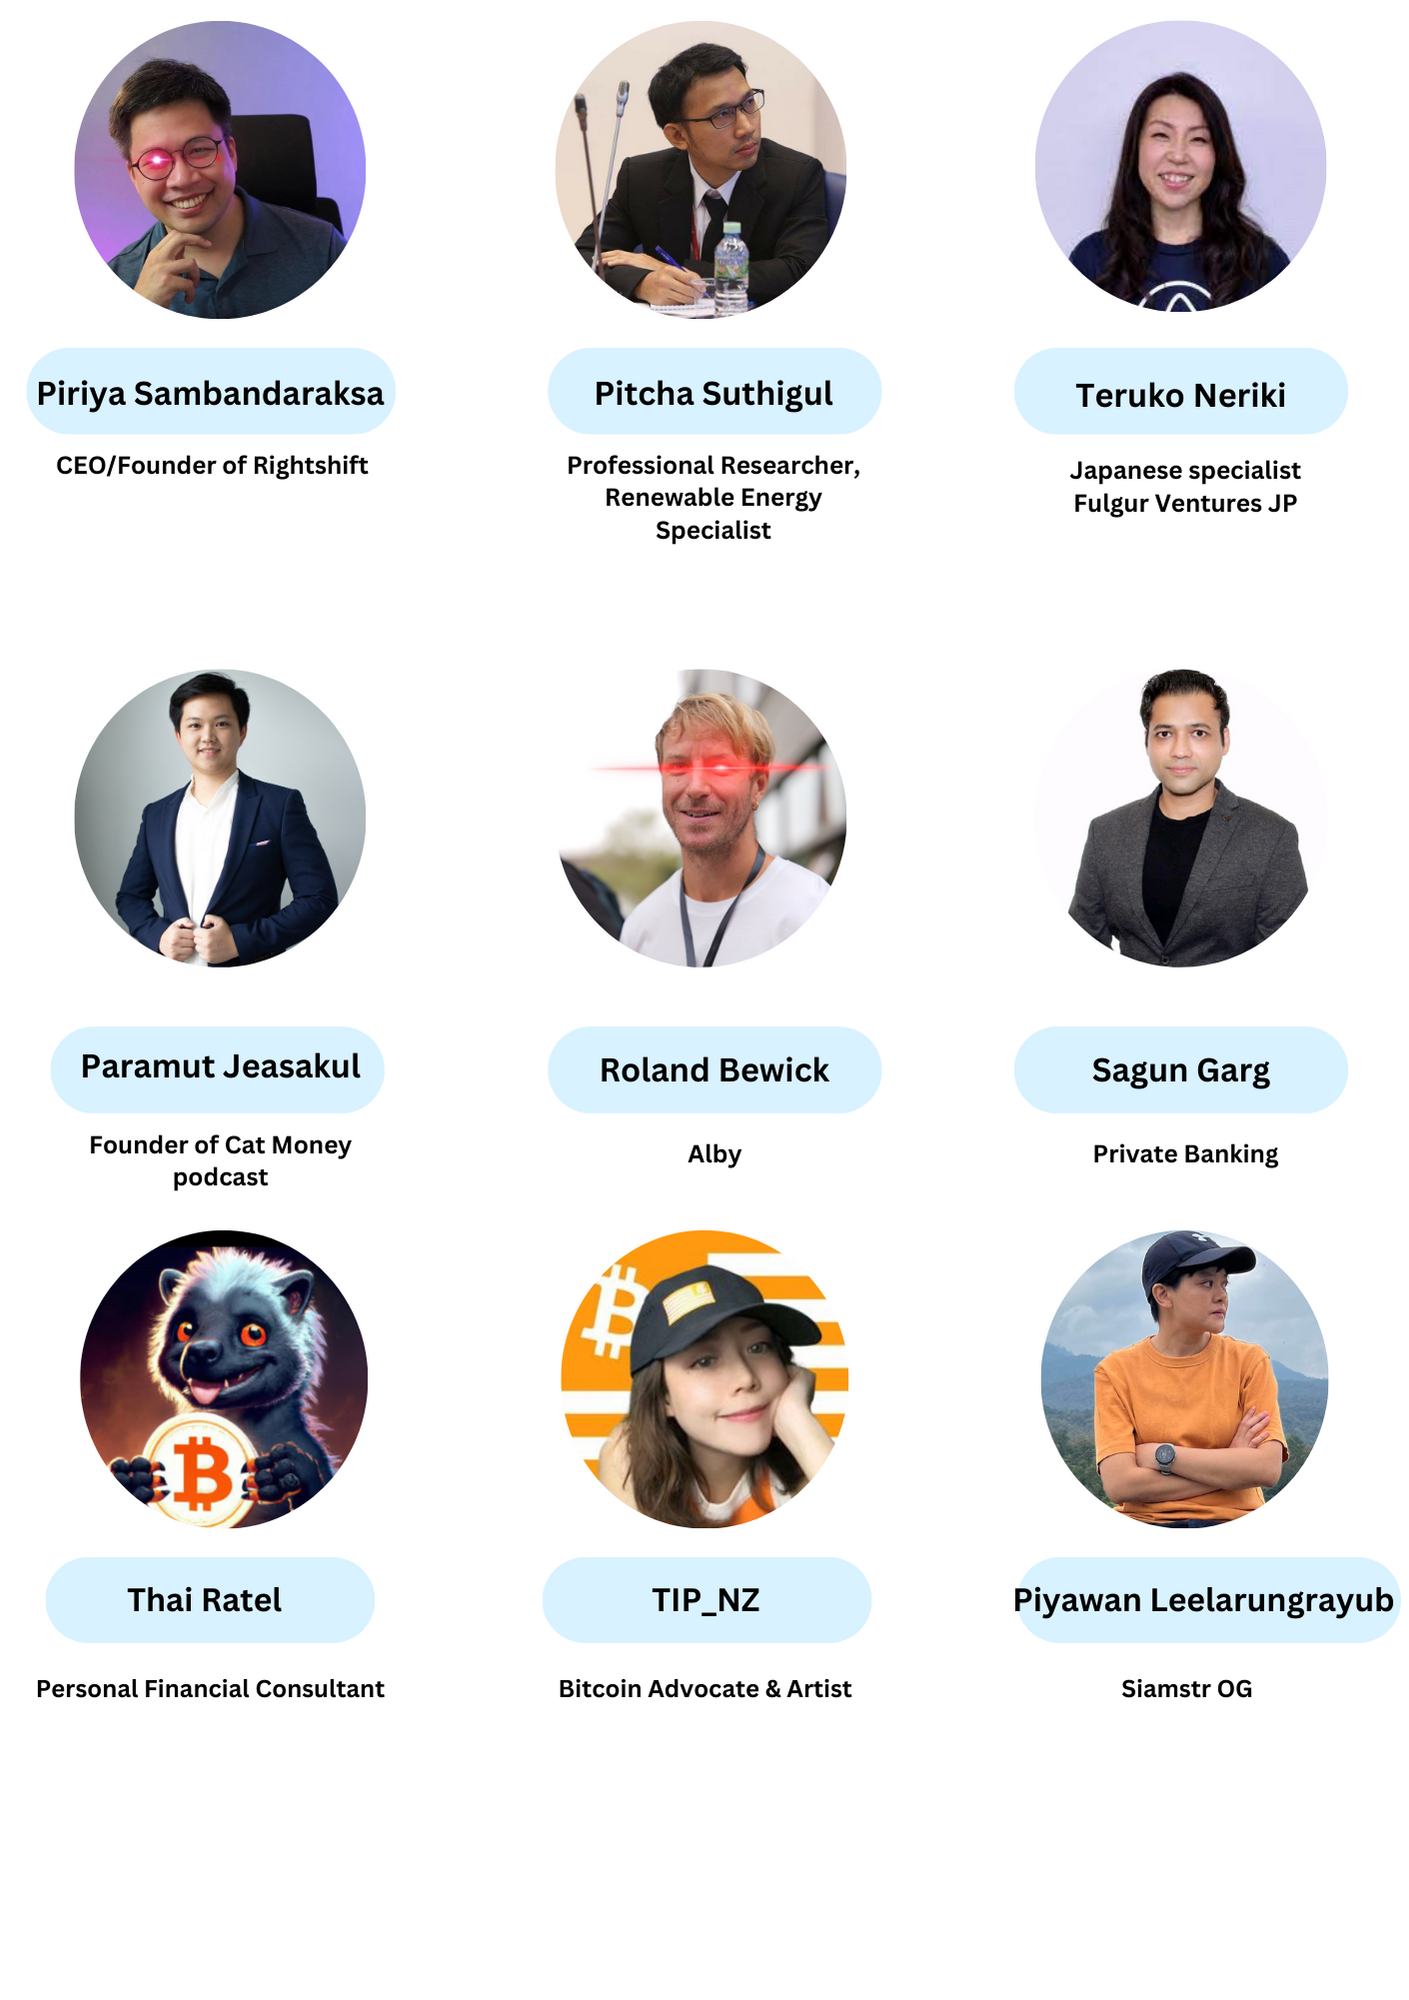
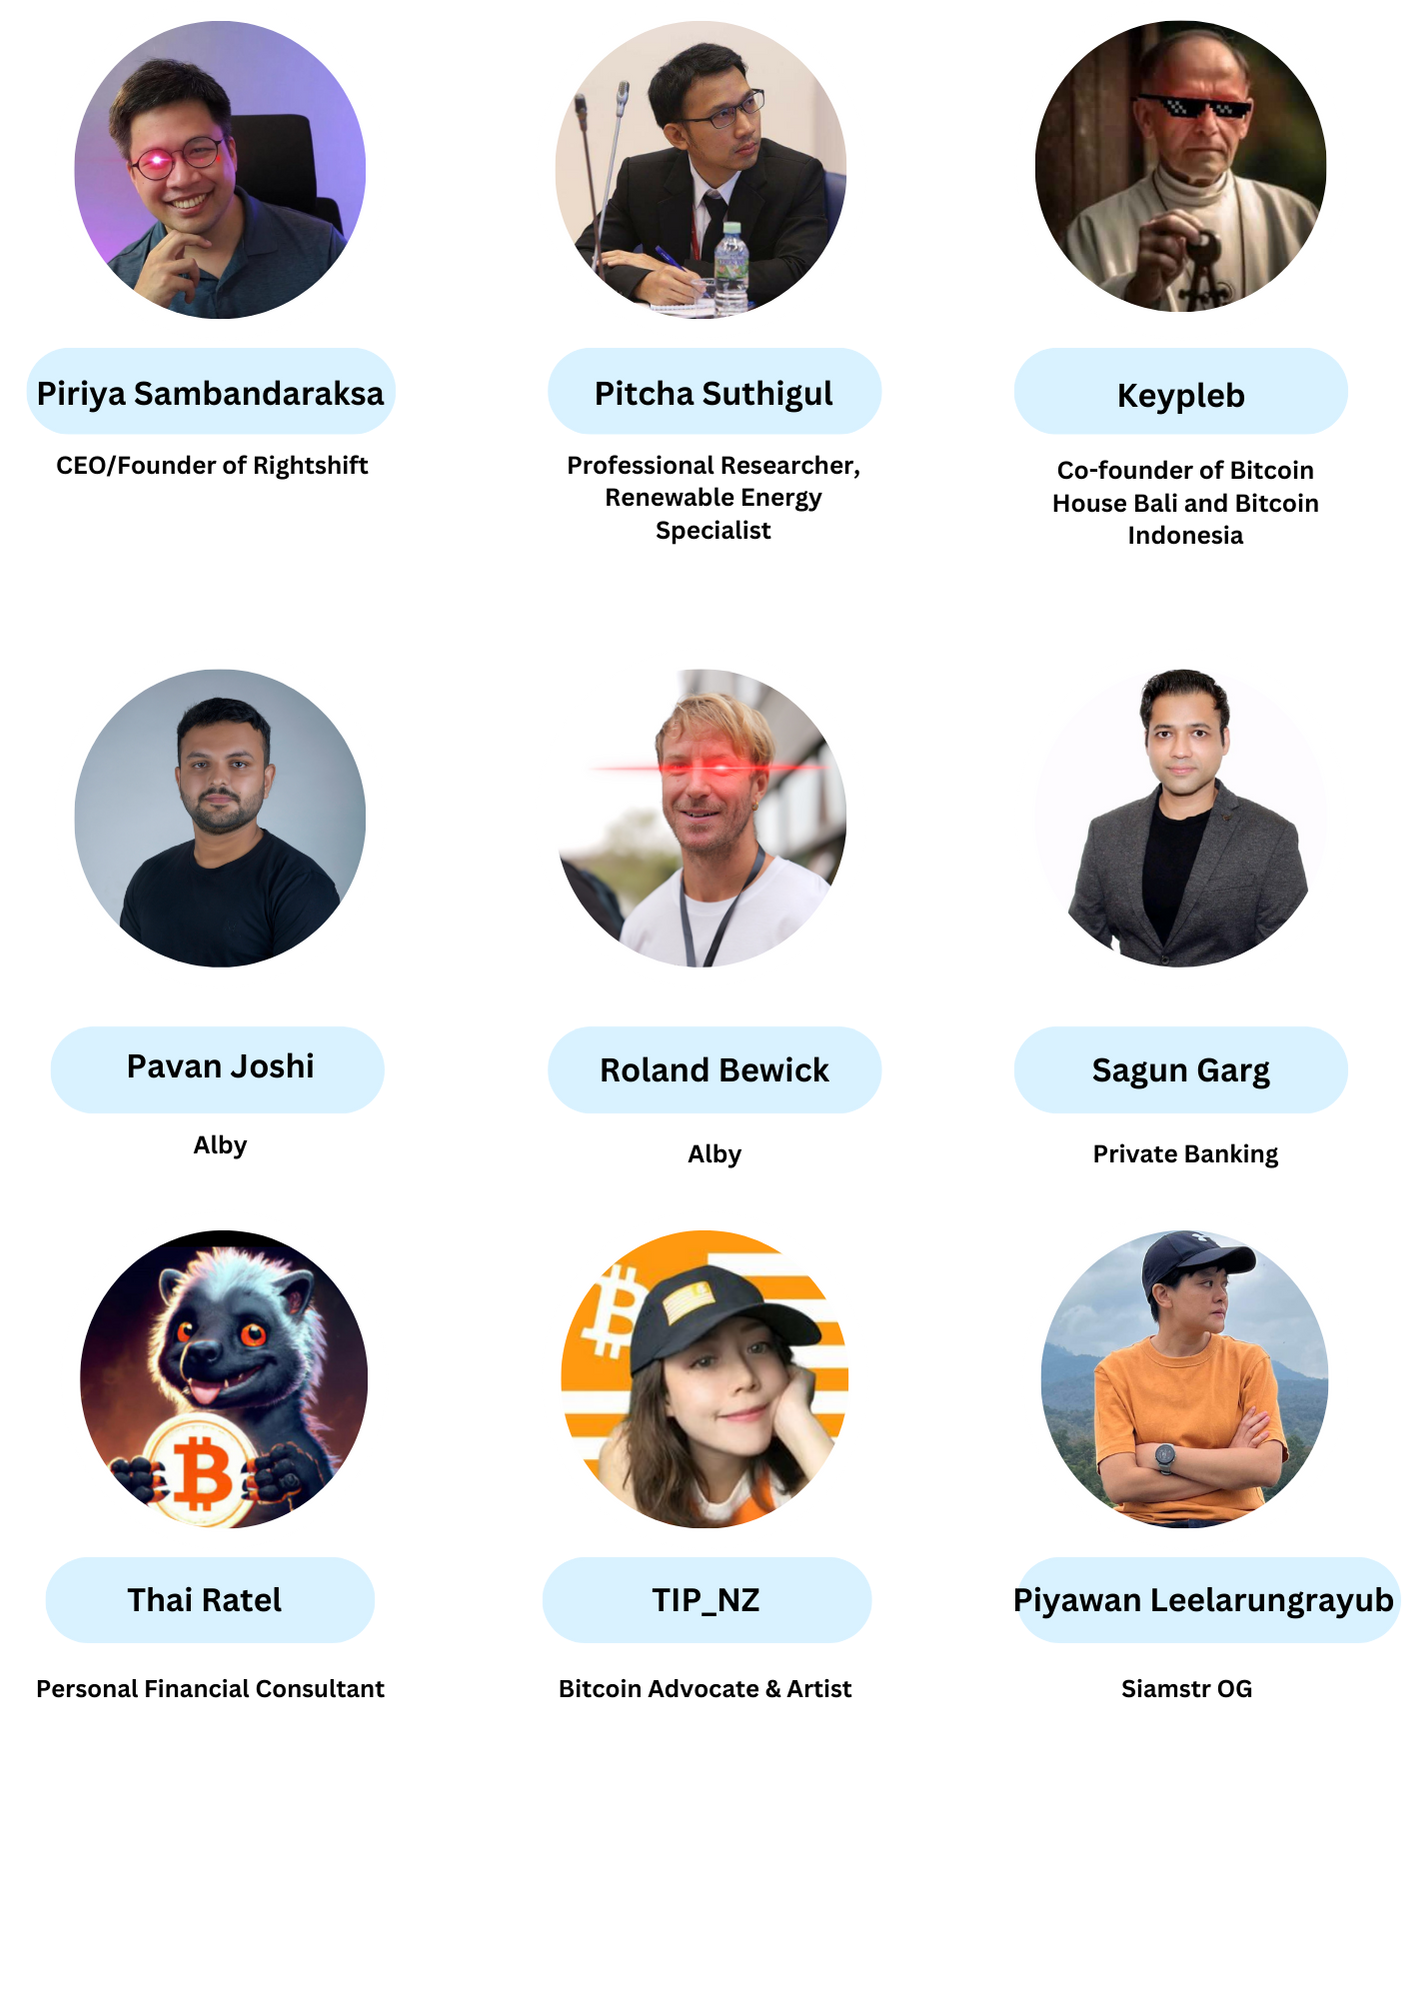
add speaker list

diff --git a/src/Section2.jsx b/src/Section2.jsx
@@ -5,8 +5,7 @@ import AnotherImage2 from './assets/speakers-list/2.png';
 import AnotherImage3 from './assets/speakers-list/3.png';
 import AnotherImage4 from './assets/speakers-list/4.png'; 
 import AnotherImage5 from './assets/speakers-list/5.png';
-// import AnotherImage6 from './assets/speakers-list/6.png';
-
+import AnotherImage6 from './assets/speakers-list/6.png';
 
 const Section2 = () => {
   const [isVisible, setIsVisible] = useState(false);
@@ -17,7 +16,7 @@ const Section2 = () => {
       ([entry]) => {
         setIsVisible(entry.isIntersecting);
       },
-      { threshold: 0.1 } // Adjust as needed
+      { threshold: 0.1 }
     );
 
     if (titleRef.current) {
@@ -69,9 +68,9 @@ const Section2 = () => {
           <div className="image-wrapper">
             <img src={AnotherImage5} alt="Overlay Image 5" className="image" />
           </div>
-{/*           <div className="image-wrapper">
+          <div className="image-wrapper">
             <img src={AnotherImage6} alt="Overlay Image 6" className="image" />
-          </div> */}
+          </div>
         </div>
       </div>
 
